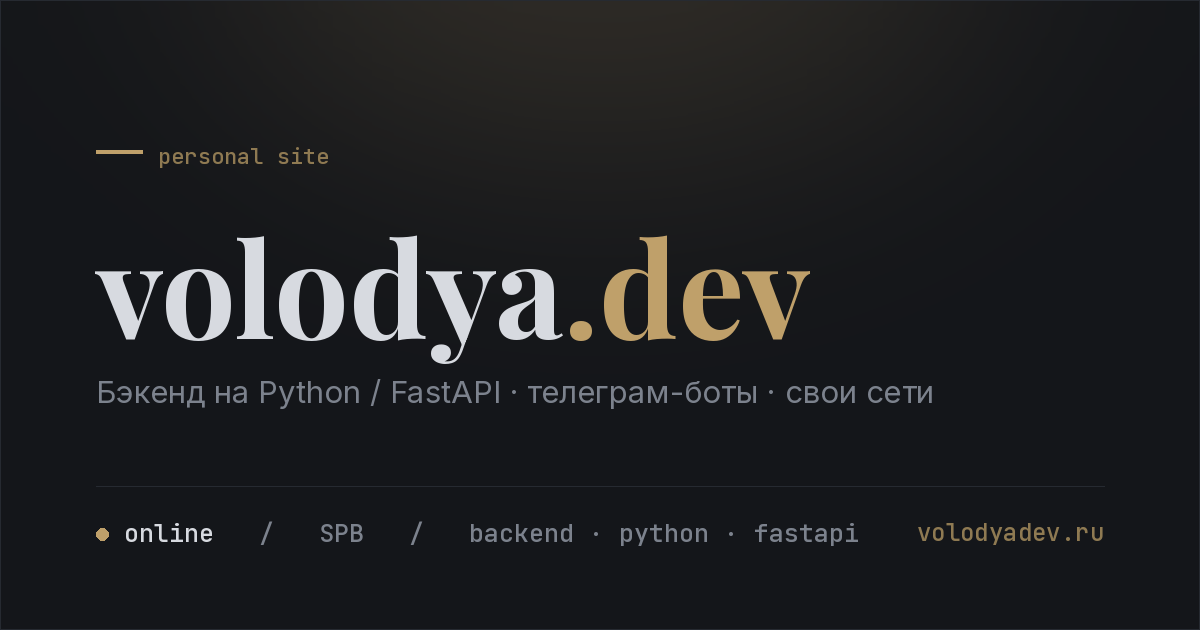
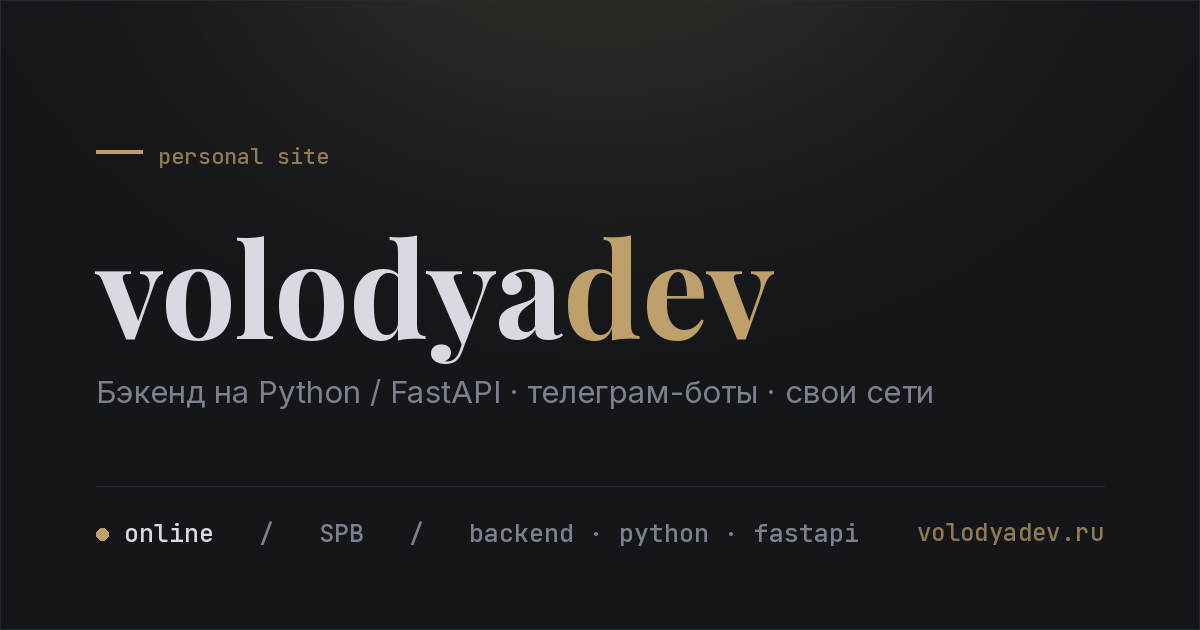
fix

Changed region(s): [[0.4625, 0.3619, 0.6783, 0.5429]]

diff --git a/src/consts.ts b/src/consts.ts
@@ -4,8 +4,8 @@
 // ─────────────────────────────────────────────────────────────
 
 export const SITE = {
-  handle: 'volodya.dev',            // то, что видно в шапке
-  title: 'volodya.dev',             // <title> и OG
+  handle: 'volodyadev',            // то, что видно в шапке
+  title: 'volodyadev',             // <title> и OG
   description:
     'Бэкенд на Python/FastAPI. Держу nyxa, пишу телеграм-ботов, копаюсь в железе.',
   author: 'Volodya',